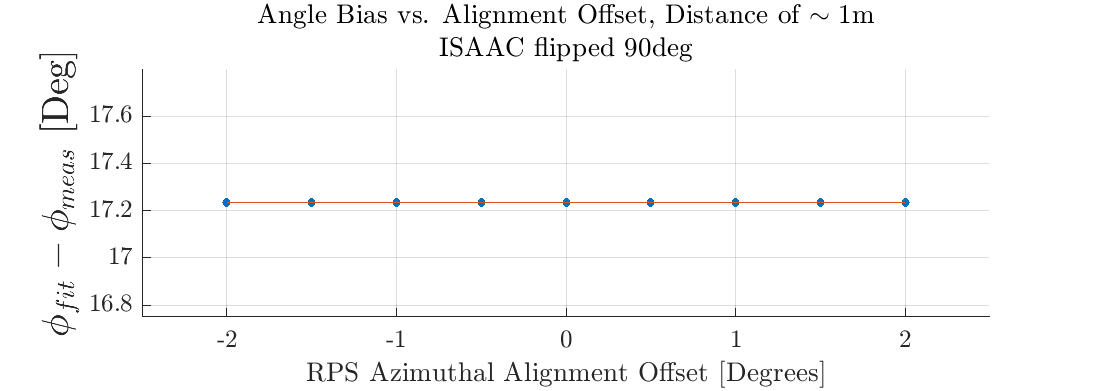
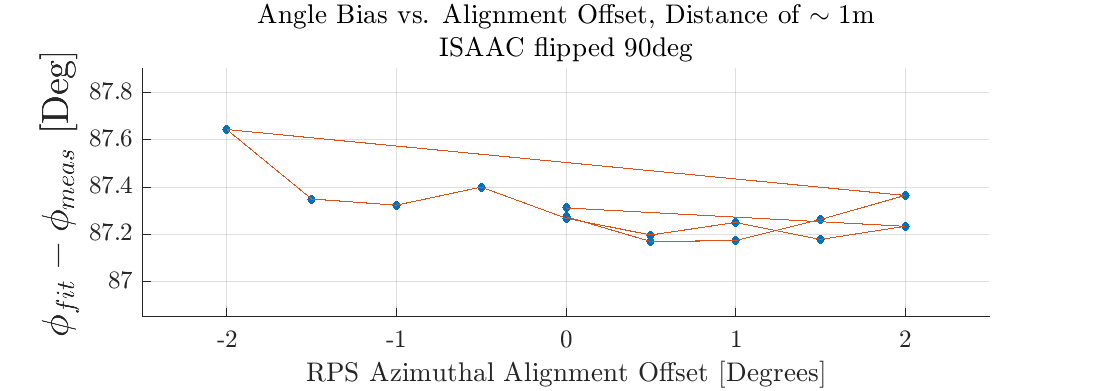
replacing incorrect roll90 plot

diff --git a/2023mmdd_isaac_data/scripts/isaac_tests.m b/2023mmdd_isaac_data/scripts/isaac_tests.m
@@ -255,8 +255,11 @@ for prefind = 40:length(prefix)%[6 7 9:15, 20:42 44]%20:42
             mxfev = 100000;
             mxiter = 100000;
             options = optimset('TolFun',1e-10,'MaxIter',mxiter,'MaxFunEvals',mxfev,'Display','off');
-            lb = [-20 -0.5 -10 -10 0]; % angle, xpol, collimation x2, amplitude
-            ub = [20 0.5 10 10 1e6];
+            %lb = [-20 -0.5 -10 -10 0]; % angle, xpol, collimation x2, amplitude
+            %ub = [20 0.5 10 10 1e6];
+
+            lb = [-180 -0.5 -10 -10 0]; % angle, xpol, collimation x2, amplitude
+            ub = [180 0.5 10 10 1e6];
 
             guess = [1e-6,1e-6,0,0,nanmax(R)/2]; % old fminsearch didn't leave zero if given zero as a guess
             %fittype = 'lsq';
@@ -1345,7 +1348,7 @@ end
 plot(offs_all,dp_all,'Color',cmlines(2,:))
 grid on
 xlim([-1 1]*2.5)
-ylim(lims+17.4);
+ylim(lims+87.5);
 ylabel('$\phi_{fit}-\phi_{meas}$ [Deg]','FontSize',18)
 xlabel('RPS Azimuthal Alignment Offset [Degrees]')
 title({'Angle Bias vs. Alignment Offset, Distance of $\sim1$m','ISAAC flipped 90deg'})
